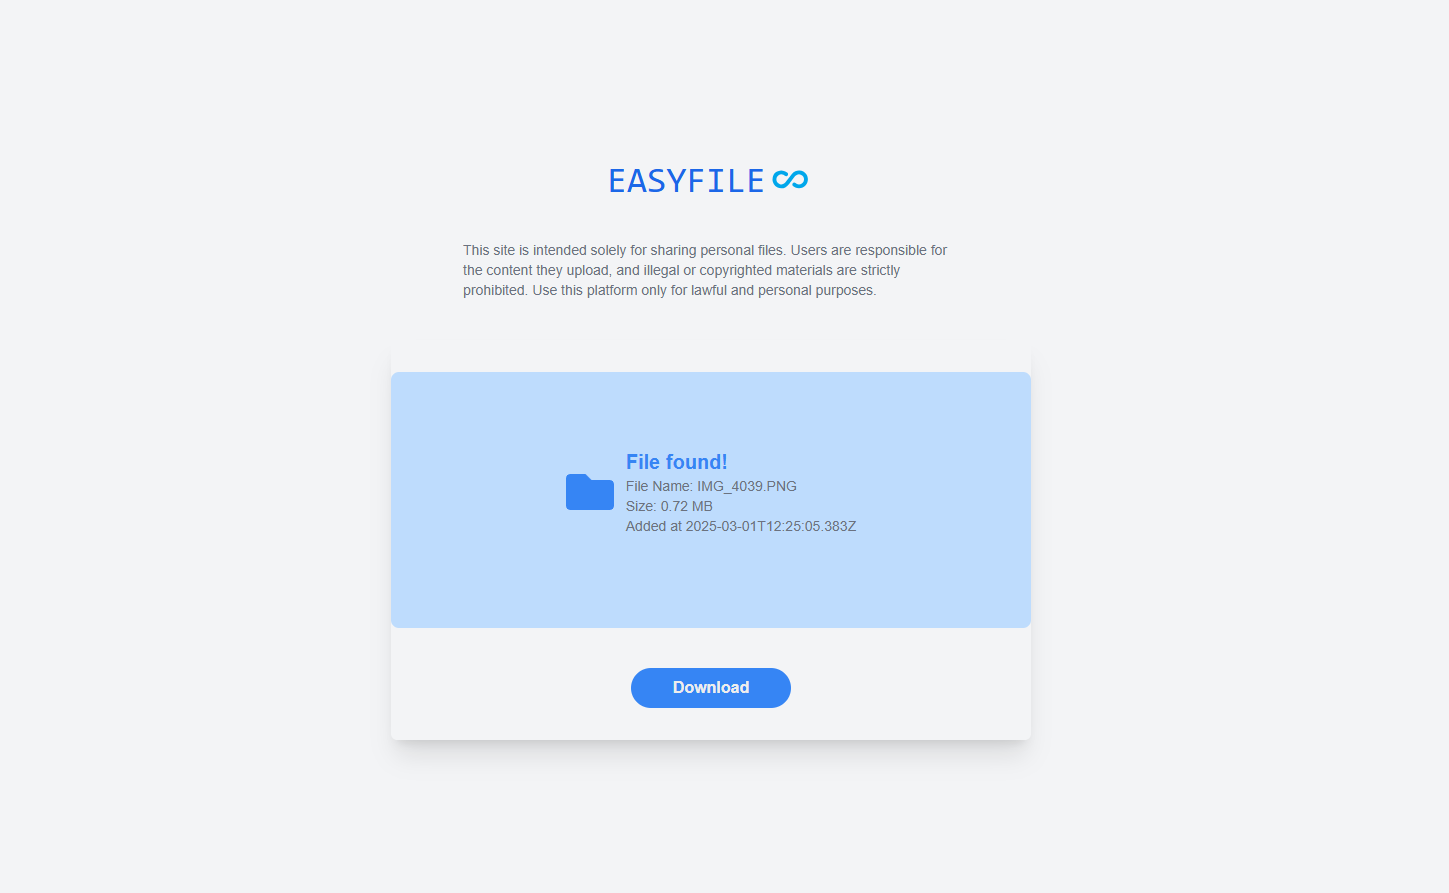
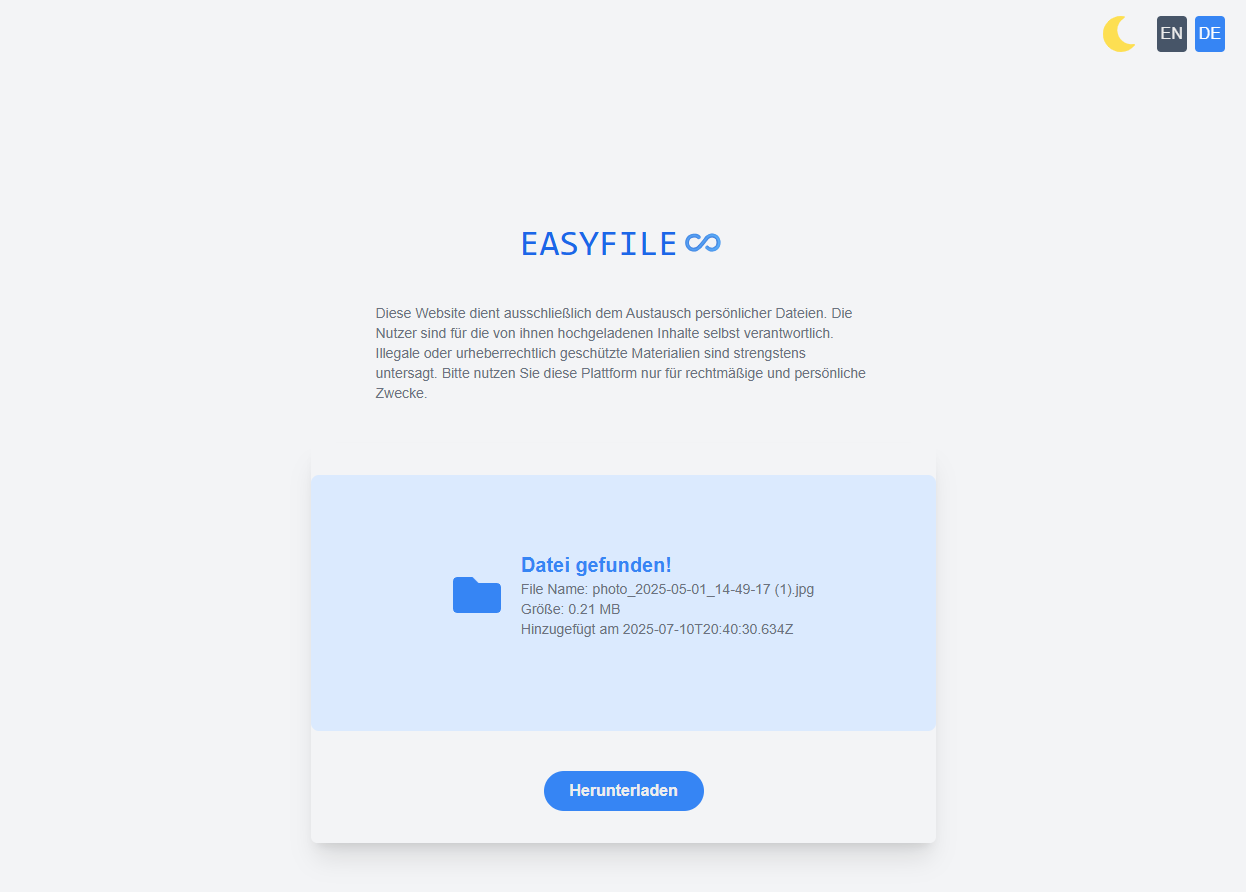
New screenshots

diff --git a/components/FileUpload.tsx b/components/FileUpload.tsx
@@ -40,8 +40,8 @@ export default function FileUpload() {
 
     try {
       const fileSizeMB = file.size / (1024 * 1024);
-      if (fileSizeMB > 10) {
-        setError('File is too large. Maximum size allowed is 10MB.');
+      if (fileSizeMB > 5) {
+        setError(t('TooBigFileError'));
         return;
       }
 
@@ -106,7 +106,7 @@ export default function FileUpload() {
             <p className="mb-2 text-sm">
               <span className="font-semibold">{t('UploadAction')}</span>
             </p>
-            <p className="text-xs">ANY TYPE (MAX. 10MB)</p>
+            <p className="text-xs">ANY TYPE (MAX. 5MB)</p>
           </div>
         )}
 

diff --git a/components/FileDownload.tsx b/components/FileDownload.tsx
@@ -72,7 +72,7 @@ export default function FileDownload(params: { fileId: string | undefined }) {
     }
 
     return(
-        <div className="flex flex-col items-center justify-center h-[400px] lg:w-1/3 w-full rounded-md shadow-xl dark:bg-gray-800">
+        <div className="flex flex-col items-center justify-center h-[400px] lg:w-1/2 w-full rounded-md shadow-xl dark:bg-gray-800">
             <label
                 htmlFor="dropzone-file"
                 className="flex flex-col items-center justify-center w-full h-64 rounded-lg cursor-pointer bg-blue-100 dark:bg-gray-600"
